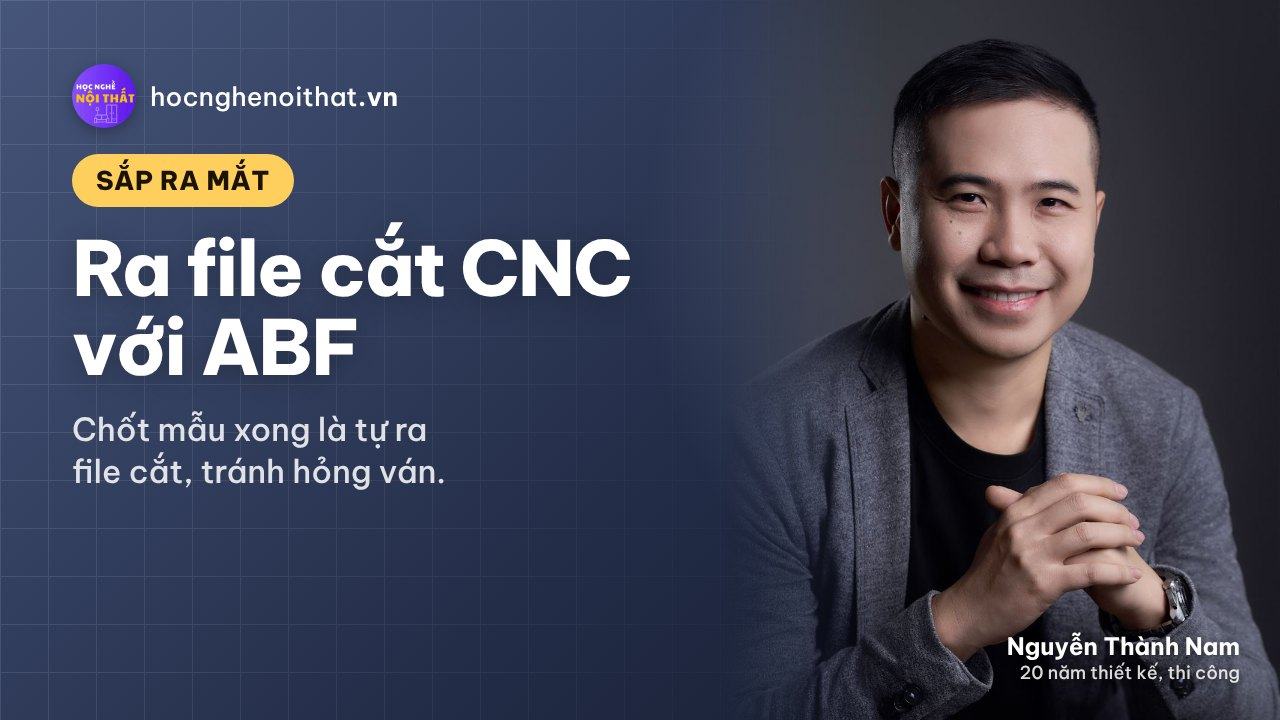
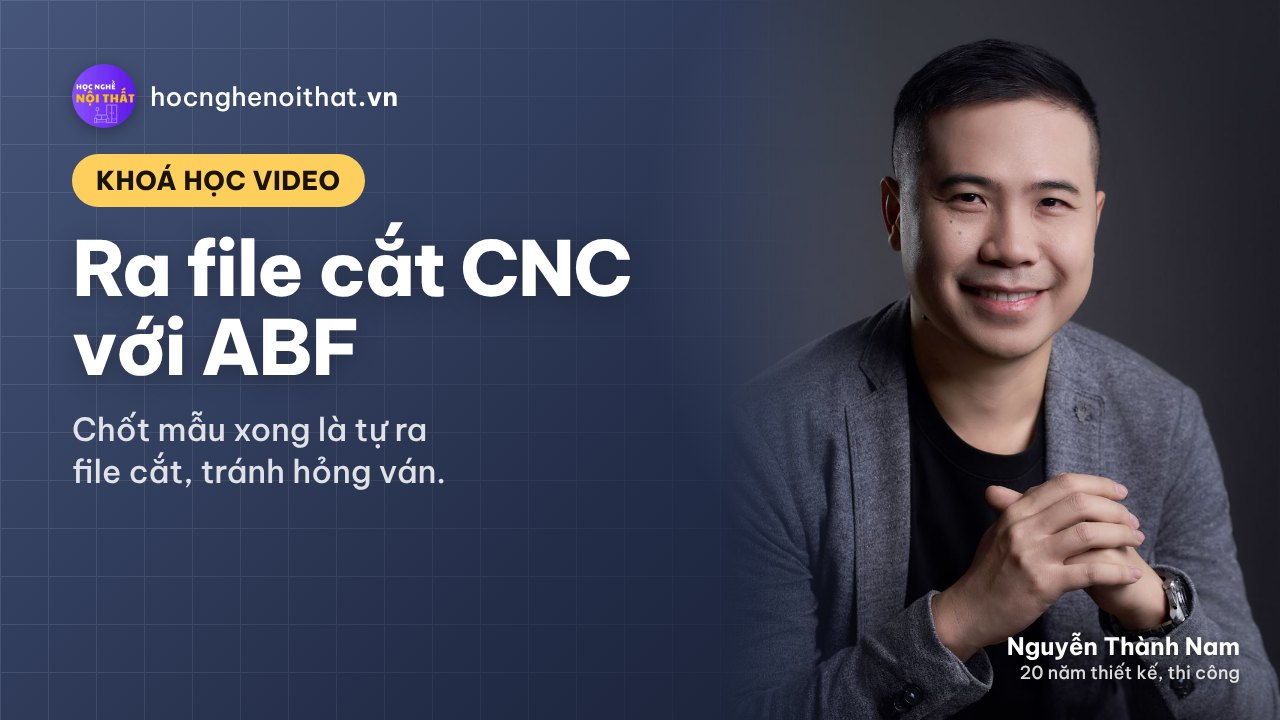
Giá bìa, bảng ship 3 cột thẳng hàng; nút 'Một vài hình ảnh chi tiết của sách'; khoá căn hộ 'Chủ động triển khai – tự làm được từ dự án nhỏ'; bỏ nhãn Kèm file báo giá thật; tên khoá sale xuống dòng; CNC bỏ Sắp ra mắt
Claude-Session: https://claude.ai/code/session_01R1JQNXKSkK2vrspryuBMNZ

Changed region(s): [[0.0625, 0.2139, 0.3125, 0.3056]]

diff --git a/index.html b/index.html
@@ -871,6 +871,14 @@
   .pm-row .price-sub{ margin:0 0 0 6px; font-size:13px; line-height:1.3; }
   .pill-tabs .pill-wide{ grid-column:1 / -1; justify-content:center; }
   @media (min-width:900px){ .pill-tabs .pill-wide{ padding-left:24px; padding-right:24px; } }
+  .price-notes{ display:grid; grid-template-columns:auto auto auto; column-gap:12px; row-gap:4px; align-items:baseline; }
+  .price-notes li{ display:contents; }
+  .pn-day{ color:var(--muted); white-space:nowrap; }
+  .price-notes span, .price-notes b{ white-space:nowrap; }
+  .pn-ship{ font-style:normal; }
+  @media (max-width:379px){ .pn-ship{ display:none; } .price-notes span:not(.pn-day){ text-transform:none; } .price-notes{ column-gap:8px; } }
+  @media (max-width:599px){ .price-notes{ font-size:13.5px; column-gap:10px; } .price-notes li b{ min-width:0 !important; font-size:15px !important; } }
+  .course.c-ready{ border-style:solid; border-color:rgba(255,255,255,.14); }
   .pill-panel{ padding-top:20px; animation:more-in .25s ease-out; }
   .pill-panel .launch{ margin-top:28px; padding-top:0; border-top:0; }
   /* cách đăng ký: số tròn nền màu chữ trắng, chữ ngay bên cạnh */
@@ -1056,14 +1064,14 @@
         </ol>
 
         <div class="price-box">
-          <div class="price-main"><span class="price-label">Giá sách</span><span class="pm-row">501.000 <small>đ</small><span class="price-sub">Nhận trực tiếp<br>tại Hà Nội</span></span></div>
+          <div class="price-main"><span class="price-label">Giá bìa</span><span class="pm-row">501.000 <small>đ</small></span></div>
           <ul class="price-notes">
-            <li><b>520.000 đ</b> Ship nội thành Hà Nội, 1–2 ngày</li>
-            <li><b>540.000 đ</b> Ship đi các tỉnh, 3–5 ngày</li>
+            <li><b>520.000 đ</b><span><i class="pn-ship">Ship </i>nội thành Hà Nội</span><span class="pn-day">1–2 ngày</span></li>
+            <li><b>540.000 đ</b><span><i class="pn-ship">Ship </i>đi các tỉnh</span><span class="pn-day">3–5 ngày</span></li>
           </ul>
         </div>
         <div class="pill-tabs" role="group" aria-label="Xem thêm về sách">
-          <button type="button" class="pill-toggle pill-wide" aria-expanded="false" aria-controls="sach-muc-luc">Xem mục lục, đọc thử và hình ảnh</button>
+          <button type="button" class="pill-toggle pill-wide" aria-expanded="false" aria-controls="sach-muc-luc">Một vài hình ảnh chi tiết của sách</button>
         </div>
         <div class="pill-panel" id="sach-muc-luc" hidden>
         <figure class="toc">
@@ -1191,14 +1199,13 @@
     <div class="course-grid">
       <article class="card course c-blue" id="khoa-nha-o">
         <h3 class="course-name">Thiết kế nội thất căn hộ chung cư</h3>
-        <p class="course-hook">Thôi dựng 3D theo ý sếp, tự làm được dự án nhỏ.</p>
+        <p class="course-hook">Chủ động triển khai – tự làm được từ dự án nhỏ.</p>
           <div class="yt" data-id="4BU7QPbhG1c"><a class="yt-btn" href="https://youtu.be/4BU7QPbhG1c" target="_blank" rel="noopener" aria-label="Phát video: Thiết kế nội thất căn hộ chung cư"><img src="anh/video-nha-o.jpg" width="1280" height="720" alt="" loading="lazy" decoding="async"><span class="yt-play" aria-hidden="true"></span></a></div>
         <div class="course-price">2.000.000 <small>đ</small></div>
         <div class="course-acts"><a class="btn btn-light btn-cta" href="https://docs.google.com/forms/d/e/1FAIpQLSdifzcGTMugGK9Ek7sWFCMCUjauHt-X1sbSAenD5RiDJKavzA/viewform" target="_blank" rel="noopener">Đăng ký ngay <span class="arrow" aria-hidden="true">›</span></a><a class="btn btn-glass" href="khoa-hoc/nha-o.html">Xem chi tiết <span aria-hidden="true">›</span></a></div>
       </article>
 
       <article class="card course c-teal" id="khoa-du-toan">
-        <span class="badge">Kèm file báo giá thật</span>
         <h3 class="course-name">Dự toán thi công nội thất cơ bản</h3>
         <p class="course-hook">Sắp tự nhận công trình? Học làm báo giá bằng Excel cho chuẩn.</p>
           <div class="yt" data-id="xZTKqIOn3Ho"><a class="yt-btn" href="https://youtu.be/xZTKqIOn3Ho" target="_blank" rel="noopener" aria-label="Phát video: Dự toán thi công nội thất cơ bản"><img src="anh/video-du-toan.jpg" width="1280" height="720" alt="" loading="lazy" decoding="async"><span class="yt-play" aria-hidden="true"></span></a></div>
@@ -1207,20 +1214,19 @@
       </article>
 
       <article class="card course c-plum" id="khoa-sale">
-        <h3 class="course-name">Tư vấn thiết kế dành cho sale nội thất</h3>
+        <h3 class="course-name">Tư vấn thiết kế<br>dành cho sale nội thất</h3>
         <p class="course-hook">Sale hiểu vật liệu, hiểu xưởng, giao đề bài đúng cho đội thiết kế.</p>
           <div class="yt" data-id="o3diN7-IPm8"><a class="yt-btn" href="https://youtu.be/o3diN7-IPm8" target="_blank" rel="noopener" aria-label="Phát video: Tư vấn thiết kế dành cho sale nội thất"><img src="anh/video-sale.jpg" width="1280" height="720" alt="" loading="lazy" decoding="async"><span class="yt-play" aria-hidden="true"></span></a></div>
         <div class="course-price">2.000.000 <small>đ</small></div>
         <div class="course-acts"><a class="btn btn-light btn-cta" href="https://docs.google.com/forms/d/e/1FAIpQLSd36TPP4fJHnBqVSjlIcWRFq9aTq3KaVEYv0PhZv77tCKz2KQ/viewform" target="_blank" rel="noopener">Đăng ký ngay <span class="arrow" aria-hidden="true">›</span></a><a class="btn btn-glass" href="khoa-hoc/sale.html">Xem chi tiết <span aria-hidden="true">›</span></a></div>
       </article>
 
-      <article class="card course c-soon" id="khoa-cnc">
-        <span class="badge badge-soon">Sắp ra mắt</span>
+      <article class="card course c-soon c-ready" id="khoa-cnc">
         <h3 class="course-name">Ra file cắt CNC với ABF</h3>
         <p class="course-hook">Chốt mẫu xong là tự ra được file cắt, tránh hỏng ván, mất tiền.</p>
         <div class="yt yt-still"><img src="anh/video-cnc.jpg" width="1280" height="720" alt="Khoá Ra file cắt CNC với ABF, sắp ra mắt" loading="lazy" decoding="async"></div>
         <div class="course-price">4.000.000 <small>đ</small></div>
-        <div class="course-acts"><a class="btn btn-light btn-cta" href="https://docs.google.com/forms/d/e/1FAIpQLSdlW6PsAcfmVvk8memwWx3kS7WMFKxt3L8bE9HIWEsogFJPYQ/viewform" target="_blank" rel="noopener">Đăng ký trước <span class="arrow" aria-hidden="true">›</span></a><a class="btn btn-glass" href="khoa-hoc/cnc.html">Xem chi tiết <span aria-hidden="true">›</span></a></div>
+        <div class="course-acts"><a class="btn btn-light btn-cta" href="https://docs.google.com/forms/d/e/1FAIpQLSdlW6PsAcfmVvk8memwWx3kS7WMFKxt3L8bE9HIWEsogFJPYQ/viewform" target="_blank" rel="noopener">Đăng ký ngay <span class="arrow" aria-hidden="true">›</span></a><a class="btn btn-glass" href="khoa-hoc/cnc.html">Xem chi tiết <span aria-hidden="true">›</span></a></div>
       </article>
     </div>
 

diff --git a/khoa-hoc/cnc.html b/khoa-hoc/cnc.html
@@ -29,12 +29,12 @@
     <div class="wrap hero-grid">
       <div>
         <a class="back" href="../index.html#khoa-hoc">‹ Tất cả khoá học</a>
-        <span class="tag">Sắp ra mắt</span>
+        <span class="tag">Khoá học video</span>
         <h1>Ra file cắt CNC với ABF</h1>
         <p class="hook">Chốt mẫu xong là tự ra được file cắt.<span>Tránh hỏng ván, mất tiền.</span></p>
         <p class="fact">Có buổi tham quan xưởng ở Hà Nội</p>
         <div class="price">4.000.000 <small>đ</small></div>
-        <div class="acts"><a class="btn btn-cta" href="https://docs.google.com/forms/d/e/1FAIpQLSdlW6PsAcfmVvk8memwWx3kS7WMFKxt3L8bE9HIWEsogFJPYQ/viewform" target="_blank" rel="noopener">Đăng ký trước ›</a><a class="btn btn-ghost" href="https://zalo.me/0988504858" target="_blank" rel="noopener">Hỏi Nam qua Zalo</a></div>
+        <div class="acts"><a class="btn btn-cta" href="https://docs.google.com/forms/d/e/1FAIpQLSdlW6PsAcfmVvk8memwWx3kS7WMFKxt3L8bE9HIWEsogFJPYQ/viewform" target="_blank" rel="noopener">Đăng ký ngay ›</a><a class="btn btn-ghost" href="https://zalo.me/0988504858" target="_blank" rel="noopener">Hỏi Nam qua Zalo</a></div>
       </div>
       <div><div class="yt yt-still"><img src="../anh/video-cnc.jpg" alt="" decoding="async"></div></div>
     </div>
@@ -45,9 +45,9 @@
       <li><b>3</b><span>Nhắn Zalo để xác nhận với Nam</span></li><li><b>4</b><span>Nhận link bài học qua email</span></li></ol></section>
     <section class="cta-band c-slate">
       <div><b>Ra file cắt CNC với ABF</b><span>4.000.000 đ</span></div>
-      <a class="btn btn-cta" href="https://docs.google.com/forms/d/e/1FAIpQLSdlW6PsAcfmVvk8memwWx3kS7WMFKxt3L8bE9HIWEsogFJPYQ/viewform" target="_blank" rel="noopener">Đăng ký trước ›</a>
+      <a class="btn btn-cta" href="https://docs.google.com/forms/d/e/1FAIpQLSdlW6PsAcfmVvk8memwWx3kS7WMFKxt3L8bE9HIWEsogFJPYQ/viewform" target="_blank" rel="noopener">Đăng ký ngay ›</a>
     </section>
-    <section class="blk"><h2>Các khoá khác</h2><div class="others"><a class="other c-violet" href="do-go.html"><span>Nên học trước</span><b>Thiết kế đồ nội thất gỗ công nghiệp</b></a><a class="other c-blue" href="nha-o.html"><span>Khoá học video</span><b>Thiết kế nội thất căn hộ chung cư</b></a><a class="other c-teal" href="du-toan.html"><span>Kèm file báo giá thật</span><b>Dự toán thi công nội thất cơ bản</b></a><a class="other c-plum" href="sale.html"><span>Khoá học video</span><b>Tư vấn thiết kế dành cho sale nội thất</b></a></div></section>
+    <section class="blk"><h2>Các khoá khác</h2><div class="others"><a class="other c-violet" href="do-go.html"><span>Nên học trước</span><b>Thiết kế đồ nội thất gỗ công nghiệp</b></a><a class="other c-blue" href="nha-o.html"><span>Khoá học video</span><b>Thiết kế nội thất căn hộ chung cư</b></a><a class="other c-teal" href="du-toan.html"><span>Khoá học video</span><b>Dự toán thi công nội thất cơ bản</b></a><a class="other c-plum" href="sale.html"><span>Khoá học video</span><b>Tư vấn thiết kế dành cho sale nội thất</b></a></div></section>
   </div>
 </main>
 <footer class="foot"><div class="wrap">© 2026 hocnghenoithat.vn · Nguyễn Thành Nam</div></footer>

diff --git a/khoa-hoc/nha-o.html b/khoa-hoc/nha-o.html
@@ -4,7 +4,7 @@
 <meta charset="utf-8">
 <meta name="viewport" content="width=device-width, initial-scale=1">
 <title>Thiết kế nội thất căn hộ chung cư · Khoá học · hocnghenoithat.vn</title>
-<meta name="description" content="Thôi dựng 3D theo ý sếp. Tự làm được một dự án nhà ở từ đầu đến cuối.">
+<meta name="description" content="Chủ động triển khai – tự làm được từ dự án nhỏ.">
 <link rel="icon" type="image/png" href="../anh/favicon.png">
 <link rel="apple-touch-icon" href="../anh/logo-180.png">
 <link rel="preconnect" href="https://fonts.googleapis.com">
@@ -31,7 +31,7 @@
         <a class="back" href="../index.html#khoa-hoc">‹ Tất cả khoá học</a>
         <span class="tag">Khoá học video</span>
         <h1>Thiết kế nội thất căn hộ chung cư</h1>
-        <p class="hook">Thôi dựng 3D theo ý sếp.<span>Tự làm được một dự án nhà ở từ đầu đến cuối.</span></p>
+        <p class="hook">Chủ động triển khai –<span>tự làm được từ dự án nhỏ.</span></p>
         
         <div class="price">2.000.000 <small>đ</small></div>
         <div class="acts"><a class="btn btn-cta" href="https://docs.google.com/forms/d/e/1FAIpQLSdifzcGTMugGK9Ek7sWFCMCUjauHt-X1sbSAenD5RiDJKavzA/viewform" target="_blank" rel="noopener">Đăng ký ngay ›</a><a class="btn btn-ghost" href="https://zalo.me/0988504858" target="_blank" rel="noopener">Hỏi Nam qua Zalo</a></div>
@@ -47,7 +47,7 @@
       <div><b>Thiết kế nội thất căn hộ chung cư</b><span>2.000.000 đ</span></div>
       <a class="btn btn-cta" href="https://docs.google.com/forms/d/e/1FAIpQLSdifzcGTMugGK9Ek7sWFCMCUjauHt-X1sbSAenD5RiDJKavzA/viewform" target="_blank" rel="noopener">Đăng ký ngay ›</a>
     </section>
-    <section class="blk"><h2>Các khoá khác</h2><div class="others"><a class="other c-violet" href="do-go.html"><span>Nên học trước</span><b>Thiết kế đồ nội thất gỗ công nghiệp</b></a><a class="other c-teal" href="du-toan.html"><span>Kèm file báo giá thật</span><b>Dự toán thi công nội thất cơ bản</b></a><a class="other c-plum" href="sale.html"><span>Khoá học video</span><b>Tư vấn thiết kế dành cho sale nội thất</b></a><a class="other c-slate" href="cnc.html"><span>Sắp ra mắt</span><b>Ra file cắt CNC với ABF</b></a></div></section>
+    <section class="blk"><h2>Các khoá khác</h2><div class="others"><a class="other c-violet" href="do-go.html"><span>Nên học trước</span><b>Thiết kế đồ nội thất gỗ công nghiệp</b></a><a class="other c-teal" href="du-toan.html"><span>Khoá học video</span><b>Dự toán thi công nội thất cơ bản</b></a><a class="other c-plum" href="sale.html"><span>Khoá học video</span><b>Tư vấn thiết kế dành cho sale nội thất</b></a><a class="other c-slate" href="cnc.html"><span>Khoá học video</span><b>Ra file cắt CNC với ABF</b></a></div></section>
   </div>
 </main>
 <footer class="foot"><div class="wrap">© 2026 hocnghenoithat.vn · Nguyễn Thành Nam</div></footer>

diff --git a/khoa-hoc/du-toan.html b/khoa-hoc/du-toan.html
@@ -29,7 +29,7 @@
     <div class="wrap hero-grid">
       <div>
         <a class="back" href="../index.html#khoa-hoc">‹ Tất cả khoá học</a>
-        <span class="tag">Kèm file báo giá thật</span>
+        <span class="tag">Khoá học video</span>
         <h1>Dự toán thi công nội thất cơ bản</h1>
         <p class="hook">Sắp tự đứng ra nhận công trình?<span>Học làm báo giá bằng Excel cho chuẩn.</span></p>
         
@@ -47,7 +47,7 @@
       <div><b>Dự toán thi công nội thất cơ bản</b><span>2.000.000 đ</span></div>
       <a class="btn btn-cta" href="https://docs.google.com/forms/d/e/1FAIpQLSfOYgJ1NfPnBZgYwoXjs7Bxw-1M9cBJWtqSdpA-mTsrHY5d0g/viewform" target="_blank" rel="noopener">Đăng ký ngay ›</a>
     </section>
-    <section class="blk"><h2>Các khoá khác</h2><div class="others"><a class="other c-violet" href="do-go.html"><span>Nên học trước</span><b>Thiết kế đồ nội thất gỗ công nghiệp</b></a><a class="other c-blue" href="nha-o.html"><span>Khoá học video</span><b>Thiết kế nội thất căn hộ chung cư</b></a><a class="other c-plum" href="sale.html"><span>Khoá học video</span><b>Tư vấn thiết kế dành cho sale nội thất</b></a><a class="other c-slate" href="cnc.html"><span>Sắp ra mắt</span><b>Ra file cắt CNC với ABF</b></a></div></section>
+    <section class="blk"><h2>Các khoá khác</h2><div class="others"><a class="other c-violet" href="do-go.html"><span>Nên học trước</span><b>Thiết kế đồ nội thất gỗ công nghiệp</b></a><a class="other c-blue" href="nha-o.html"><span>Khoá học video</span><b>Thiết kế nội thất căn hộ chung cư</b></a><a class="other c-plum" href="sale.html"><span>Khoá học video</span><b>Tư vấn thiết kế dành cho sale nội thất</b></a><a class="other c-slate" href="cnc.html"><span>Khoá học video</span><b>Ra file cắt CNC với ABF</b></a></div></section>
   </div>
 </main>
 <footer class="foot"><div class="wrap">© 2026 hocnghenoithat.vn · Nguyễn Thành Nam</div></footer>

diff --git a/khoa-hoc/sale.html b/khoa-hoc/sale.html
@@ -47,7 +47,7 @@
       <div><b>Tư vấn thiết kế dành cho sale nội thất</b><span>2.000.000 đ</span></div>
       <a class="btn btn-cta" href="https://docs.google.com/forms/d/e/1FAIpQLSd36TPP4fJHnBqVSjlIcWRFq9aTq3KaVEYv0PhZv77tCKz2KQ/viewform" target="_blank" rel="noopener">Đăng ký ngay ›</a>
     </section>
-    <section class="blk"><h2>Các khoá khác</h2><div class="others"><a class="other c-violet" href="do-go.html"><span>Nên học trước</span><b>Thiết kế đồ nội thất gỗ công nghiệp</b></a><a class="other c-blue" href="nha-o.html"><span>Khoá học video</span><b>Thiết kế nội thất căn hộ chung cư</b></a><a class="other c-teal" href="du-toan.html"><span>Kèm file báo giá thật</span><b>Dự toán thi công nội thất cơ bản</b></a><a class="other c-slate" href="cnc.html"><span>Sắp ra mắt</span><b>Ra file cắt CNC với ABF</b></a></div></section>
+    <section class="blk"><h2>Các khoá khác</h2><div class="others"><a class="other c-violet" href="do-go.html"><span>Nên học trước</span><b>Thiết kế đồ nội thất gỗ công nghiệp</b></a><a class="other c-blue" href="nha-o.html"><span>Khoá học video</span><b>Thiết kế nội thất căn hộ chung cư</b></a><a class="other c-teal" href="du-toan.html"><span>Khoá học video</span><b>Dự toán thi công nội thất cơ bản</b></a><a class="other c-slate" href="cnc.html"><span>Khoá học video</span><b>Ra file cắt CNC với ABF</b></a></div></section>
   </div>
 </main>
 <footer class="foot"><div class="wrap">© 2026 hocnghenoithat.vn · Nguyễn Thành Nam</div></footer>

diff --git a/khoa-hoc/do-go.html b/khoa-hoc/do-go.html
@@ -47,7 +47,7 @@
       <div><b>Thiết kế đồ nội thất gỗ công nghiệp</b><span>3.000.000 đ</span></div>
       <a class="btn btn-cta" href="https://docs.google.com/forms/d/e/1FAIpQLSfQxAkoKXSXmKOlOiXHCPoDMdVTEEzLfocBijmvAzzzoXNQAg/viewform" target="_blank" rel="noopener">Đăng ký ngay ›</a>
     </section>
-    <section class="blk"><h2>Các khoá khác</h2><div class="others"><a class="other c-blue" href="nha-o.html"><span>Khoá học video</span><b>Thiết kế nội thất căn hộ chung cư</b></a><a class="other c-teal" href="du-toan.html"><span>Kèm file báo giá thật</span><b>Dự toán thi công nội thất cơ bản</b></a><a class="other c-plum" href="sale.html"><span>Khoá học video</span><b>Tư vấn thiết kế dành cho sale nội thất</b></a><a class="other c-slate" href="cnc.html"><span>Sắp ra mắt</span><b>Ra file cắt CNC với ABF</b></a></div></section>
+    <section class="blk"><h2>Các khoá khác</h2><div class="others"><a class="other c-blue" href="nha-o.html"><span>Khoá học video</span><b>Thiết kế nội thất căn hộ chung cư</b></a><a class="other c-teal" href="du-toan.html"><span>Khoá học video</span><b>Dự toán thi công nội thất cơ bản</b></a><a class="other c-plum" href="sale.html"><span>Khoá học video</span><b>Tư vấn thiết kế dành cho sale nội thất</b></a><a class="other c-slate" href="cnc.html"><span>Khoá học video</span><b>Ra file cắt CNC với ABF</b></a></div></section>
   </div>
 </main>
 <footer class="foot"><div class="wrap">© 2026 hocnghenoithat.vn · Nguyễn Thành Nam</div></footer>

diff --git a/cong-cu/thumbnail/tao.js b/cong-cu/thumbnail/tao.js
@@ -3,10 +3,10 @@ const {chromium}=require('playwright');const path=require('path');
 const goc=path.resolve(__dirname,'..','..');
 const ds=[
  ['do-go','violet','Xem video bài giảng','Thiết kế|đồ gỗ công nghiệp','Vẽ sao cho xưởng sản xuất được mới là thiết kế.'],
- ['nha-o','blue','Khoá học video','Thiết kế nội thất|căn hộ chung cư','Thôi dựng 3D theo ý sếp, tự làm được dự án nhỏ.'],
+ ['nha-o','blue','Khoá học video','Thiết kế nội thất|căn hộ chung cư','Chủ động triển khai – tự làm được từ dự án nhỏ.'],
  ['du-toan','teal','Khoá học video','Dự toán|thi công nội thất','Làm báo giá bằng Excel, từ file báo giá thật.'],
  ['sale','plum','Khoá học video','Tư vấn thiết kế|cho sale nội thất','Hiểu vật liệu, hiểu xưởng, giao đề bài đúng.'],
- ['cnc','slate','Sắp ra mắt','Ra file cắt CNC|với ABF','Chốt mẫu xong là tự ra file cắt, tránh hỏng ván.'],
+ ['cnc','slate','Khoá học video','Ra file cắt CNC|với ABF','Chốt mẫu xong là tự ra file cắt, tránh hỏng ván.'],
 ];
 (async()=>{const b=await chromium.launch();const p=await b.newPage({viewport:{width:1280,height:720},deviceScaleFactor:1});
 for(const [ten,c,k,t,s] of ds){

diff --git a/cong-cu/tao-khoa-hoc.py b/cong-cu/tao-khoa-hoc.py
@@ -35,7 +35,7 @@ KHOA = [
        video=[('RMaDNY6P_i0', 'Xem video bài giảng')], anh=[]),
   dict(ten='nha-o', mau='c-blue', nhan='Khoá học video',
        tieu_de='Thiết kế nội thất căn hộ chung cư',
-       cau1='Thôi dựng 3D theo ý sếp.', cau2='Tự làm được một dự án nhà ở từ đầu đến cuối.',
+       cau1='Chủ động triển khai –', cau2='tự làm được từ dự án nhỏ.',
        gia='2.000.000', gia_phu='', so_lieu='',
        form='1FAIpQLSdifzcGTMugGK9Ek7sWFCMCUjauHt-X1sbSAenD5RiDJKavzA',
        thumb='anh/video-nha-o.jpg',
@@ -47,7 +47,7 @@ KHOA = [
                  'Nói chuyện được với chủ nhà từ buổi gặp đầu tiên'],
        ho_tro='', video=[('4BU7QPbhG1c', 'Video giới thiệu khoá học')],
        anh=[('anh/can-ho-phong-khach.jpg', 'Một căn hộ Nam đã làm')]),
-  dict(ten='du-toan', mau='c-teal', nhan='Kèm file báo giá thật',
+  dict(ten='du-toan', mau='c-teal', nhan='Khoá học video',
        tieu_de='Dự toán thi công nội thất cơ bản',
        cau1='Sắp tự đứng ra nhận công trình?', cau2='Học làm báo giá bằng Excel cho chuẩn.',
        gia='2.000.000', gia_phu='', so_lieu='',
@@ -69,11 +69,11 @@ KHOA = [
                'Phối hợp với thiết kế và xưởng', 'Nắm bắt nhu cầu khách để giao đề bài đúng cho đội thiết kế'],
        lam_duoc=['Tư vấn sơ bộ cho khách mà không phải chờ thiết kế', 'Giao đề bài rõ ràng, đội thiết kế đỡ làm đi làm lại'],
        ho_tro='', video=[('o3diN7-IPm8', 'Video giới thiệu khoá học')], anh=[]),
-  dict(ten='cnc', mau='c-slate', nhan='Sắp ra mắt',
+  dict(ten='cnc', mau='c-slate', nhan='Khoá học video',
        tieu_de='Ra file cắt CNC với ABF',
        cau1='Chốt mẫu xong là tự ra được file cắt.', cau2='Tránh hỏng ván, mất tiền.',
        gia='4.000.000', gia_phu='', so_lieu='Có buổi tham quan xưởng ở Hà Nội',
-       form='1FAIpQLSdlW6PsAcfmVvk8memwWx3kS7WMFKxt3L8bE9HIWEsogFJPYQ', dang_ky='Đăng ký trước',
+       form='1FAIpQLSdlW6PsAcfmVvk8memwWx3kS7WMFKxt3L8bE9HIWEsogFJPYQ',
        thumb='anh/video-cnc.jpg',
        hop_voi=[],
        hoc_gi=['Quy trình từ lúc chốt mẫu với khách tới khi ra file cắt gỗ', 'Cách tránh hỏng ván, mất tiền',
